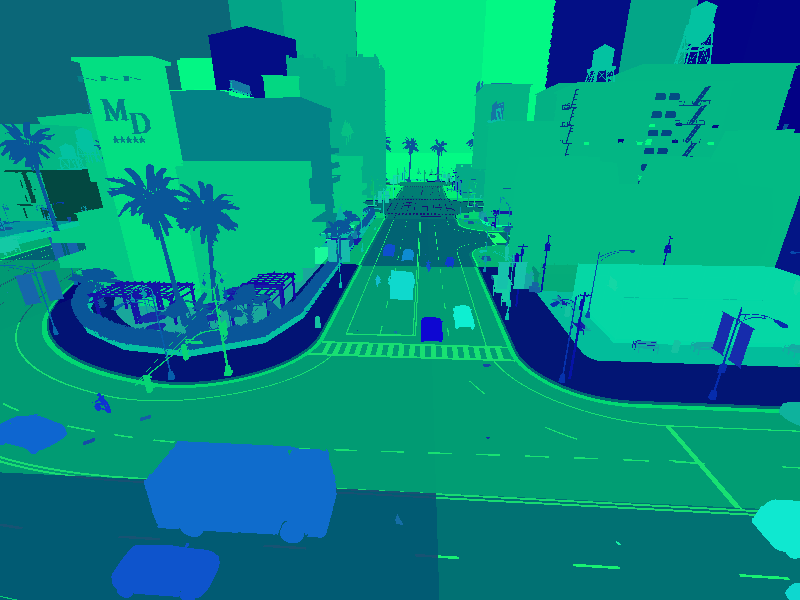
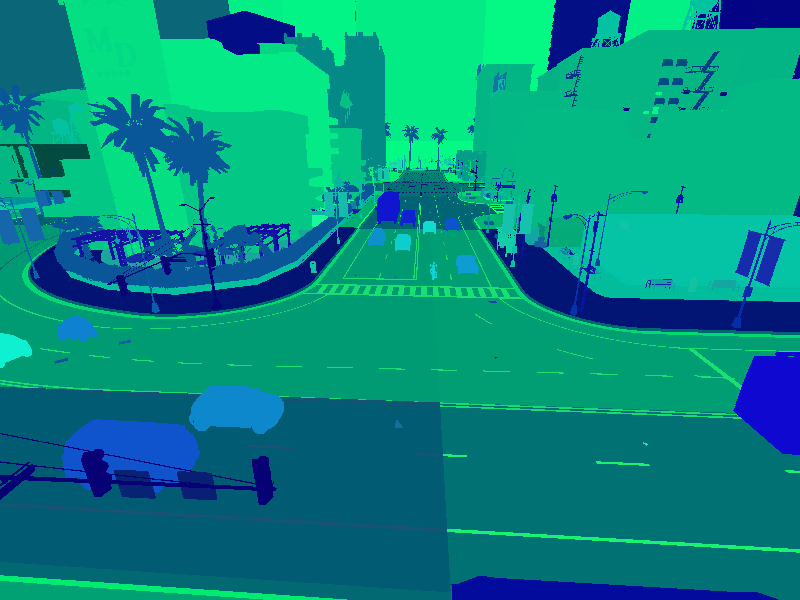
Update Readme Make small changes

diff --git a/instance_segmentation.py b/instance_segmentation.py
@@ -1,0 +1,55 @@
+# %%
+import carla
+import random
+import queue
+
+# %%
+client = carla.Client('localhost', 2000)
+world = client.get_world()
+settings = world.get_settings()
+settings.synchronous_mode = True
+settings.fixed_delta_seconds = 0.05
+world.apply_settings(settings)
+
+# %% [markdown]
+# ### Set up instance segmentation camera
+
+# %%
+spawn_points = world.get_map().get_spawn_points()
+spectator = world.get_spectator()
+
+cam_location = carla.Location(x=-46, y=152, z=12)
+cam_rotation = carla.Rotation(pitch=-21, yaw=-93.4, roll=0)
+camera_transform = carla.Transform(location=cam_location, rotation=cam_rotation)
+spectator.set_transform(camera_transform)
+
+instance_camera_bp = world.get_blueprint_library().find('sensor.camera.instance_segmentation')
+instance_camera = world.try_spawn_actor(instance_camera_bp, camera_transform)
+
+# %% [markdown]
+# ### Populate the scene
+
+# %%
+vehicle_bp_library = world.get_blueprint_library().filter('*vehicle*')
+radius = 80
+
+for sp in spawn_points:
+    vec = [sp.location.x - cam_location.x, sp.location.y - cam_location.y]
+    if vec[0]*vec[0] + vec[1]*vec[1] < radius*radius:
+        world.try_spawn_actor(random.choice(vehicle_bp_library), sp)
+world.tick()
+
+# %% [markdown]
+# ### Generate the image
+
+# %%
+instance_image_queue = queue.Queue()
+instance_camera.listen(instance_image_queue.put)
+world.tick()
+instance_image = instance_image_queue.get()
+instance_image.save_to_disk('output/part05/instance_segmentation.png')
+
+# %%
+
+
+

diff --git a/README.md b/README.md
@@ -2,3 +2,32 @@
 # EE267_LAB0: Access Carla
 
 Please refer to the instructions [here](https://docs.google.com/document/d/1PwzTUXI43FQObJ2Cy7xu3a_J-AEyEal76FWF_SttEhE/edit?usp=sharing)
+
+## Part 01
+- Go to the Carla root directory: `cd ~/carla`
+- Run `./CarlaUE4.sh` for interactive environment and `./CarlaUE4.sh -RenderOffScreen` for background simulation (Useful when control is exclusively through API).
+
+## Part 02
+- We created the environment called `trojan` with Python version 3.9
+- Access this environment with `conda activate trojan` or use the prebuilt environment with `conda activate carla`
+- `cd ~/carla/ee267-fall25-lab0-trojanhorsepower`
+- `vglrun python manual_control.py` - For manual control
+- `vglrun python automatic_control.py` - For automatic control
+
+## Part 03
+- Start the simulator following the steps in Part 01 (interactive sim) and activate the conda environment like in Part 02
+- Navigate to anywhere you like in the simulator.
+- `cd ~/carla/ee267-fall25-lab0-trojanhorsepower && python traffic_manager.py`
+- Run code cells step by step in the notebook `traffic_manager.ipynb` if needed.
+
+
+## Part 04
+- Start the simulator following the steps in Part 01 (background sim) and activate the conda environment like in Part 02
+- run all code cells of `bounding_boxes.ipynb` to achieve all the similar results.
+- Find the PASCAL VOC output at `./output/part_04/`
+
+## Part 05
+- Start the simulator following the steps in Part 01 (interactive sim) and activate the conda environment like in Part 02
+- `cd ~/carla/ee267-fall25-lab0-trojanhorsepower && python instance_segmentation.py`
+- Run code cells step by step in the notebook `instance_segmentation.ipynb` if needed.
+- Find the image output at `./output/part_05/instance_segmentation.png`
